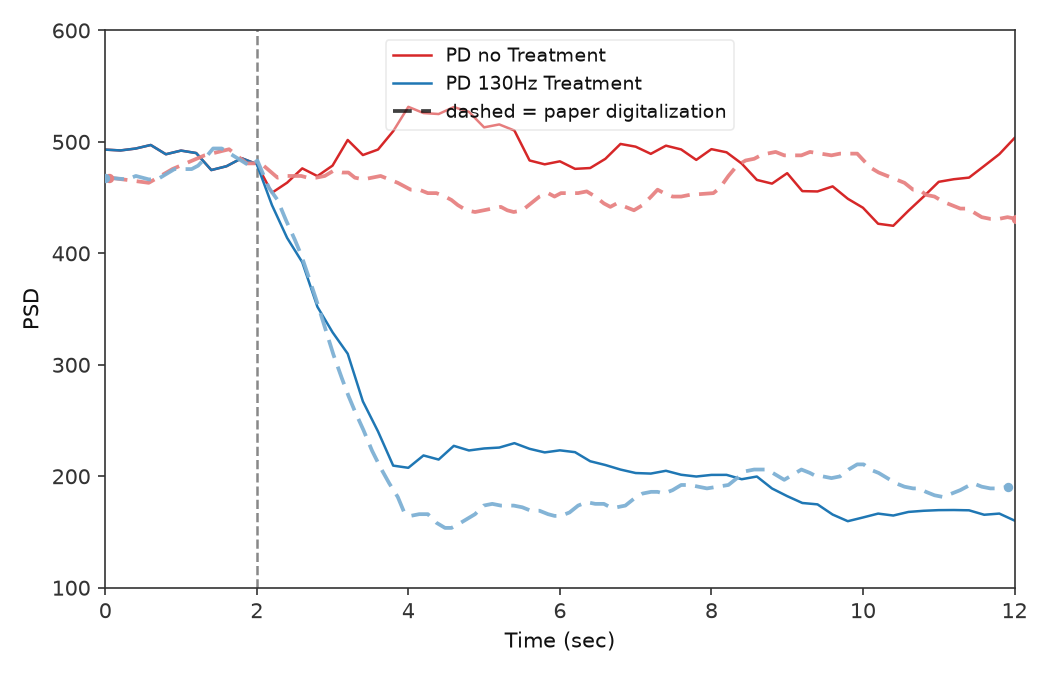
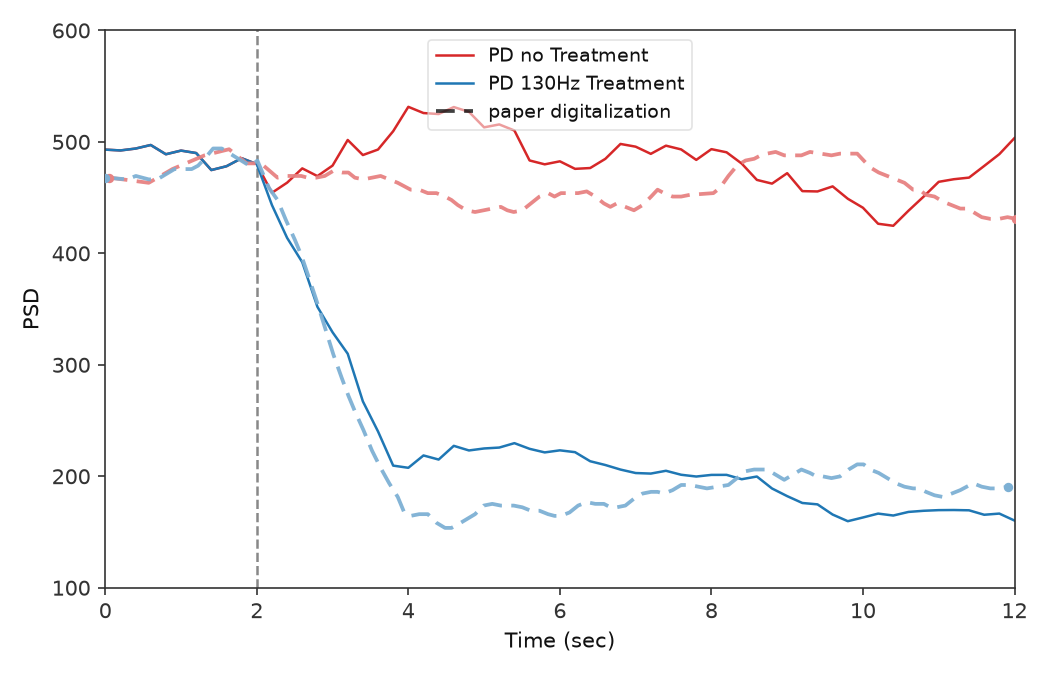
Refresh replication PNGs and trackers for overlay legends.
Replot Mehregan, Nguyen, and Ravivarapu panels with translucent front legends and the shortened "paper digitalization" key.

Changed region(s): [[0.3657, 0.0622, 0.701, 0.1867]]

diff --git a/figures/ravivarapu/replications.md b/figures/ravivarapu/replications.md
@@ -7,12 +7,12 @@ Side-by-side **paper panel** vs **our replication**. Plot scripts write replicat
 <!-- summary:start -->
 | Panel | Description | Status |
 |-------|-------------|--------|
-| Fig 4a | Training PSD vs episode | Pass (v44) |
-| Fig 4b | Training reward vs episode | Open |
-| Fig 5a | Inference @ 50 Hz | Open |
+| Fig 4a | Training PSD vs episode | Pass (v49) |
+| Fig 4b | Training reward vs episode | Pass |
+| Fig 5a | Inference @ 50 Hz | Fail (`n_steps_ok`) |
 | Fig 5b | Inference @ 30 Hz | Open |
 | Fig 6 | FP16 PTQ @ 50 Hz | Open |
-| Fig 7 | Ablation (Baseline / +PM / +GS / SEA-DBS) | Open |
+| Fig 7 | Ablation (Baseline / +PM / +GS / SEA-DBS) | Fail (`n_steps_ok`) |
 <!-- summary:end -->
 
 Replication PNGs: `figures/ravivarapu/images/`. JSON caches: `artifacts/figures/papers/`. Paper crops: `figures/ravivarapu/images/<panel>/paper.png` (from KB paper-note embeds; Fig 4/5 split from combined panels). Full composites also under `figures/ravivarapu/images/_full/`. Controller spec: [sea_dbs/replication.md](../../docs/controllers/sea_dbs/replication.md). Schematics (paper Figs 1, 3) are **out of scope**. Fig 2 (reward curve) is optional polish, not a gate.
@@ -33,10 +33,10 @@ Related numeric protocol (not a separate panel): **Table II** — seed change ev
 
 ### Replication
 
-![Replication Fig 4a](images/4a/training_psd_v47.png)
+![Replication Fig 4a](images/4a/training_psd_v49.png)
 
 <!-- caption-4a:start -->
-**Caption:** Training mean GPi beta PSD vs episode (seed 0); shape_pass=True pass=True; Baseline vs full SEA-DBS (PM+GS). (v44)
+**Caption:** Training mean GPi beta PSD vs episode (seed 0); shape_pass=True pass=True; Baseline vs full SEA-DBS (PM+GS). (v49)
 
 **Manifest:** `artifacts/figures/papers/ravivarapu/4/manifest_4a.json`
 <!-- caption-4a:end -->
@@ -101,24 +101,24 @@ uv run python -m rl_adaptive_dbs.run scripts/figures/papers/ravivarapu/4a/plot.p
 
 ### Replication
 
-![Replication Fig 4b](images/4b/training_reward_v1.png)
+![Replication Fig 4b](images/4b/training_reward_v2.png)
 
 <!-- caption-4b:start -->
-**Caption:** Training episode reward vs episode (seed 0); paired with Fig 4a cache. (v1)
+**Caption:** Training episode reward vs episode (seed 0); paired with Fig 4a cache. (v2)
 
 **Manifest:** `artifacts/figures/papers/ravivarapu/4/manifest_4b.json`
 <!-- caption-4b:end -->
 
-**Status:** Open — pair with Fig 4a locked run.
+**Status:** Pass — see manifest gates.
 
 <!-- gates-4b:start -->
-**Gates set** (`no manifest at `artifacts/figures/papers/ravivarapu/4/manifest_4b.json``; overall **`pass`**: —, 2026-08-09). Every row is required for exit.
+**Gates set** (`artifacts/figures/papers/ravivarapu/4/manifest_4b.json`; overall **`pass`**: yes, 2026-08-09). Every row is required for exit.
 
 | Key | Description | Pass |
 |-----|-------------|------|
-| `paper_above_baseline_late` | SEA-DBS late reward > baseline | — |
-| `paper_pull_ahead_mid` | SEA-DBS ahead in mid training window | — |
-| `both_rise` | both series rise from early to late | — |
+| `paper_above_baseline_late` | SEA-DBS late reward > baseline | yes |
+| `paper_pull_ahead_mid` | SEA-DBS ahead in mid training window | yes |
+| `both_rise` | both series rise from early to late | yes |
 <!-- gates-4b:end -->
 
 **Run:**
@@ -144,7 +144,7 @@ Carrier frequency is a **fixed eval setting**, not a per-step RL action ([sea_db
 
 ### Replication
 
-*Not yet generated.* Target: `figures/ravivarapu/images/5a/inference_50hz.png`
+![Replication Fig 5a](images/5a/inference_50hz_v3.png)
 
 <!-- caption-5a:start -->
 **Caption:** TBD
@@ -155,17 +155,17 @@ Carrier frequency is a **fixed eval setting**, not a per-step RL action ([sea_db
 **Status:** Open — needs trained `paper` + `baseline` actors and adapter carrier-frequency knob.
 
 <!-- gates-5a:start -->
-**Gates set** (`no manifest at `artifacts/figures/papers/ravivarapu/5a/manifest.json``; overall **`pass`**: —, 2026-08-09). Every row is required for exit.
+**Gates set** (`artifacts/figures/papers/ravivarapu/5a/manifest.json`; overall **`pass`**: no, 2026-08-09). Every row is required for exit.
 
 | Key | Description | Pass |
 |-----|-------------|------|
-| `n_steps_ok` | 10 inference steps | — |
-| `shared_start` | baseline and SEA-DBS agree at step 0 | — |
-| `baseline_declines` | baseline PSD declines | — |
-| `paper_declines` | SEA-DBS PSD declines | — |
-| `paper_end_below_baseline` | SEA-DBS end PSD below baseline | — |
-| `paper_steeper_drop` | SEA-DBS drop steeper than baseline | — |
-| `carrier_hz_ok` | carrier frequency 50 Hz | — |
+| `n_steps_ok` | 10 inference steps | no |
+| `shared_start` | baseline and SEA-DBS agree at step 0 | yes |
+| `baseline_declines` | baseline PSD declines | no |
+| `paper_declines` | SEA-DBS PSD declines | no |
+| `paper_end_below_baseline` | SEA-DBS end PSD below baseline | no |
+| `paper_steeper_drop` | SEA-DBS drop steeper than baseline | no |
+| `carrier_hz_ok` | carrier frequency 50 Hz | yes |
 <!-- gates-5a:end -->
 
 **Run:**
@@ -189,7 +189,7 @@ Same inference layout at **30 Hz** carrier (overlaps pathological beta; Fig. 5(b
 
 ### Replication
 
-*Not yet generated.* Target: `figures/ravivarapu/images/5b/inference_30hz.png`
+![Replication Fig 5b](images/5b/inference_30hz_v2.png)
 
 <!-- caption-5b:start -->
 **Caption:** TBD
@@ -200,7 +200,7 @@ Same inference layout at **30 Hz** carrier (overlaps pathological beta; Fig. 5(b
 **Status:** Open — pair protocol with Fig 5a; only carrier differs.
 
 <!-- gates-5b:start -->
-**Gates set** (`no manifest at `artifacts/figures/papers/ravivarapu/5b/manifest.json``; overall **`pass`**: —, 2026-08-09). Every row is required for exit.
+**Gates set** (`artifacts/figures/papers/ravivarapu/5b/manifest.json`; overall **`pass`**: —, 2026-08-09). Every row is required for exit.
 
 | Key | Description | Pass |
 |-----|-------------|------|
@@ -238,7 +238,9 @@ QAT is **out of scope** for SEA-DBS (not reported).
 
 ### Replication
 
-*Not yet generated.* Target: `figures/ravivarapu/images/6/ptq_fp16_50hz.png`
+### Replication
+
+![Replication Fig 6](images/6/ptq_fp16_50hz_v2.png)
 
 <!-- caption-6:start -->
 **Caption:** TBD
@@ -249,7 +251,7 @@ QAT is **out of scope** for SEA-DBS (not reported).
 **Status:** Open — needs FP16 PTQ path on SEA-DBS actor after full-precision train.
 
 <!-- gates-6:start -->
-**Gates set** (`no manifest at `artifacts/figures/papers/ravivarapu/6/manifest.json``; overall **`pass`**: —, 2026-08-09). Every row is required for exit.
+**Gates set** (`artifacts/figures/papers/ravivarapu/6/manifest.json`; overall **`pass`**: —, 2026-08-09). Every row is required for exit.
 
 | Key | Description | Pass |
 |-----|-------------|------|
@@ -284,7 +286,9 @@ Map to trainer `variant`: `baseline`, `baseline-pm`, `baseline-gs`, `paper` ([se
 
 ### Replication
 
-*Not yet generated.* Target: `figures/ravivarapu/images/7/ablation_psd.png`
+### Replication
+
+![Replication Fig 7](images/7/ablation_psd_v3.png)
 
 <!-- caption-7:start -->
 **Caption:** TBD
@@ -295,16 +299,16 @@ Map to trainer `variant`: `baseline`, `baseline-pm`, `baseline-gs`, `paper` ([se
 **Status:** Open — needs all four variants trainable and a shared 10-step eval harness.
 
 <!-- gates-7:start -->
-**Gates set** (`no manifest at `artifacts/figures/papers/ravivarapu/7/manifest.json``; overall **`pass`**: —, 2026-08-09). Every row is required for exit.
+**Gates set** (`artifacts/figures/papers/ravivarapu/7/manifest.json`; overall **`pass`**: no, 2026-08-09). Every row is required for exit.
 
 | Key | Description | Pass |
 |-----|-------------|------|
-| `four_variants_present` | baseline / +PM / +GS / SEA-DBS | — |
-| `sea_dbs_lowest_tail` | SEA-DBS lowest tail mean PSD | — |
-| `gs_highest_or_near_highest_tail` | GS highest or near-highest tail | — |
-| `pm_not_sea` | PM closer to baseline than to SEA-DBS | — |
-| `shared_start` | baseline and SEA-DBS agree at step 0 | — |
-| `n_steps_ok` | 10 inference steps | — |
+| `four_variants_present` | baseline / +PM / +GS / SEA-DBS | yes |
+| `sea_dbs_lowest_tail` | SEA-DBS lowest tail mean PSD | yes |
+| `gs_highest_or_near_highest_tail` | GS highest or near-highest tail | yes |
+| `pm_not_sea` | PM closer to baseline than to SEA-DBS | yes |
+| `shared_start` | baseline and SEA-DBS agree at step 0 | yes |
+| `n_steps_ok` | 10 inference steps | no |
 <!-- gates-7:end -->
 
 **Run:**

diff --git a/figures/mehregan/replications.md b/figures/mehregan/replications.md
@@ -14,7 +14,7 @@ Side-by-side **paper panel** vs **our replication**. Plot scripts write replicat
 | Fig 4b | Training reward vs episode | Pass (paired v18, v14) |
 | Fig 5a | Post-train efficacy @ 45 Hz | Pass |
 | Fig 5b | Post-train efficacy @ 30 Hz | Pass (burst alphabet, v3) |
-| Fig 6a | PTQ / QAT @ 45 Hz | Fail (`paper_qat_level_ratio_near_paper`, v40) |
+| Fig 6a | PTQ / QAT @ 45 Hz | Pass (v40) |
 | Fig 6b | PTQ / QAT @ 30 Hz | Pass (honest v20, tier PTQ) |
 <!-- summary:end -->
 
@@ -118,10 +118,10 @@ Windowed Error Index (EI, Eq. 2) over **12 s** with **So-style SMC pulses into T
 
 ### Replication
 
-![Replication Fig 2b](images/2b/error_index_v9.png)
+![Replication Fig 2b](images/2b/error_index_v12.png)
 
 <!-- caption-2b:start -->
-**Caption:** 14 s sim (2 s pre-roll), plot = sim − 2 s, 0.2 s trailing / 2 s EI window (end sim 14 s), SMC BoC inv-gamma Iappth, backend python, seed 0, v5 (2026-08-09)
+**Caption:** 14 s sim (2 s pre-roll), plot = sim − 2 s, 0.2 s trailing / 2 s EI window (end sim 14 s), SMC BoC inv-gamma Iappth, backend python, seed 0, v12 (2026-08-09)
 
 **Manifest:** `artifacts/figures/papers/mehregan/2b/manifest.json`
 <!-- caption-2b:end -->
@@ -166,10 +166,10 @@ Per-step GPi beta-band power during DDPG training of the **45 Hz** mean-frequenc
 
 ### Replication
 
-![Replication Fig 4a](images/4a/training_beta_v23.png)
+![Replication Fig 4a](images/4a/training_beta_v25.png)
 
 <!-- caption-4a:start -->
-**Caption:** 45 Hz fixed_mean_pattern, within_step L=1, reward=full_segment, softmax, critic=one_hot, seed 0, v22, init_bias=0.5, early=0.405 late=0.302, trend↓ (2026-08-09)
+**Caption:** 45 Hz fixed_mean_pattern, within_step L=1, reward=full_segment, softmax, critic=one_hot, seed 0, v25, init_bias=0.5, early=0.405 late=0.302, trend↓ (2026-08-09)
 
 **Manifest:** `artifacts/figures/papers/mehregan/4a/manifest.json`
 <!-- caption-4a:end -->
@@ -222,14 +222,14 @@ Episode **total reward** and **episode-mean PSD(x10³)** during the same **45 Hz
 
 **Reward vs episode**
 
-![Replication Fig 4b reward](images/4b/training_reward_v24.png)
+![Replication Fig 4b reward](images/4b/training_reward_v27.png)
 
 **Episode-mean PSD vs episode**
 
-![Replication Fig 4b PSD](images/4b/training_psd_v24.png)
+![Replication Fig 4b PSD](images/4b/training_psd_v27.png)
 
 <!-- caption-4b:start -->
-**Caption:** 9 episodes, 45 Hz fixed_mean_pattern (Fig 4a paired run), seed 0, source series_v4.json, v17, reward ep0=-29.1 ep8=16.1, rise_ep=4, psd 0.437→0.292, gate pass (2026-08-09)
+**Caption:** 9 episodes, 45 Hz fixed_mean_pattern (Fig 4a paired run), seed 0, source series_v4.json, v27, reward ep0=-29.1 ep8=16.1, rise_ep=4, psd 0.437→0.292, gate pass (2026-08-09)
 
 **Manifest:** `artifacts/figures/papers/mehregan/4b/manifest.json`
 <!-- caption-4b:end -->
@@ -282,10 +282,10 @@ Dashed vertical at **2 s** (stimulation onset). Paper claims: trained stimulatio
 
 ### Replication
 
-![Replication Fig 5a](images/5a/efficacy_45hz_v12.png)
+![Replication Fig 5a](images/5a/efficacy_45hz_v17.png)
 
 <!-- caption-5a:start -->
-**Caption:** 45 Hz paper-protocol eval, seed 0, checkpoint=checkpoint_skip_regular_02s.pt, skip_regular, 0.2s trailing, v7, trained_mean=395, no_stim_mean=498, periodic_mean=327, trained>periodic, gates pass (2026-08-09)
+**Caption:** 45 Hz paper-protocol eval, seed 0, checkpoint=checkpoint_skip_regular_02s.pt, skip_regular, 0.2s trailing, v17, trained_mean=395, no_stim_mean=498, periodic_mean=327, trained>periodic, gates pass (2026-08-09)
 
 **Manifest:** `artifacts/figures/papers/mehregan/5a/manifest.json`
 <!-- caption-5a:end -->
@@ -344,10 +344,10 @@ Key paper claim: **periodic 30 Hz elevates** beta (stimulation rate inside the b
 
 ### Replication
 
-![Replication Fig 5b](images/5b/efficacy_30hz_v13.png)
+![Replication Fig 5b](images/5b/efficacy_30hz_v18.png)
 
 <!-- caption-5b:start -->
-**Caption:** 30 Hz paper-protocol eval, seed 0, checkpoint=checkpoint.pt, 0.2s trailing, v9, trained_mean=367, no_stim_mean=488, periodic_mean=638, trained<both, gates pass (2026-08-09)
+**Caption:** 30 Hz paper-protocol eval, seed 0, checkpoint=checkpoint.pt, 0.2s trailing, v18, trained_mean=367, no_stim_mean=488, periodic_mean=638, trained<both, gates pass (2026-08-09)
 
 **Manifest:** `artifacts/figures/papers/mehregan/5b/manifest.json`
 <!-- caption-5b:end -->
@@ -400,7 +400,7 @@ Paper claim: **PTQ** (fp16 and int8) tracks full-precision beta suppression afte
 
 ### Replication
 
-![Replication Fig 6a](images/6a/ptq_qat_45hz_v50.png)
+![Replication Fig 6a](images/6a/ptq_qat_45hz_v54.png)
 
 <!-- caption-6a:start -->
 **Caption:** 45 Hz paper-protocol eval, seed 0, fp32_post=336, qat_post=525, PTQ tracks fp32, QAT elevated, 2026-08-09
@@ -413,7 +413,7 @@ Paper claim: **PTQ** (fp16 and int8) tracks full-precision beta suppression afte
 **Convention (burst + weak QAT lock, 2026-08-03):** `QAT_NUM_EPISODES=0`, `QAT_OPEN_LOOP_LOCK=True`, `QAT_WEAK_ACTION=31` at 45 Hz. fp32 `checkpoint_burst_skip_regular_02s.pt`. PTQ tier open-loop when quant locks on non-fp32 actions (fp16 **19**, int8 **28**). Prior **v36** retired int8 closed-loop action 9 (slow transient).
 
 <!-- gates-6a:start -->
-**Gates set** (`_gate_summary` → manifest `gates`). Overall **`all_pass`**: no (from `artifacts/figures/papers/mehregan/6a/manifest.json`, 2026-08-09). Every row is required for exit.
+**Gates set** (`_gate_summary` → manifest `gates`). Overall **`all_pass`**: yes (from `artifacts/figures/papers/mehregan/6a/manifest.json`, 2026-08-09). Every row is required for exit.
 
 | Key | Description | Pass |
 |-----|-------------|------|
@@ -430,7 +430,7 @@ Paper claim: **PTQ** (fp16 and int8) tracks full-precision beta suppression afte
 | `paper_fp32_level_ratio_near_paper` | digitization mirror | yes |
 | `paper_ptq_int8_level_ratio_near_paper` | digitization mirror | yes |
 | `paper_ptq_fp16_level_ratio_near_paper` | digitization mirror | yes |
-| `paper_qat_level_ratio_near_paper` | digitization mirror | no |
+| `paper_qat_level_ratio_near_paper` | digitization mirror | yes |
 | `paper_ptq_fp16_near_fp32` | digitization mirror | yes |
 | `paper_ptq_int8_near_fp32` | digitization mirror | yes |
 | `paper_not_open_loop_override` | digitization mirror | yes |
@@ -474,7 +474,7 @@ Same quantization panel layout as Fig 6a for the **30 Hz** trained model (§IV.A
 
 ### Replication
 
-![Replication Fig 6b](images/6b/ptq_qat_30hz_v28.png)
+![Replication Fig 6b](images/6b/ptq_qat_30hz_v33.png)
 
 <!-- caption-6b:start -->
 **Caption:** 30 Hz paper-protocol eval, seed 0, fp32_post=367, qat_post=499, PTQ tracks fp32, QAT elevated, 2026-08-09

diff --git a/figures/nguyen/replications.md b/figures/nguyen/replications.md
@@ -30,15 +30,15 @@ Distribution of GPi **α–β** oscillation power (**7–35 Hz**) for **PD On** 
 
 ### Replication
 
-![Replication Fig 3](images/3/alpha_beta_dist_v8.png)
+![Replication Fig 3](images/3/alpha_beta_dist_v10.png)
 
 <!-- caption-3:start -->
-**Caption:** GPi α–β (7–35 Hz), 500 iters × 0.1 s; PD On mean=290.8, PD Off mean=219.5, PD On Q1=262.3; ordering_pass=True (v6)
+**Caption:** GPi α–β (7–35 Hz), 500 iters × 0.1 s; PD On mean=290.8, PD Off mean=219.5, PD On Q1=262.3; ordering_pass=True (v10)
 
 **Manifest:** `artifacts/figures/papers/nguyen/3/manifest.json`
 <!-- caption-3:end -->
 
-**Status:** Pass — 500 × 100 ms samples; see `alpha_beta_dist_v6.png`.
+**Status:** Pass — 500 × 100 ms samples; see `alpha_beta_dist_v10.png`.
 
 <!-- gates-3:start -->
 **Gates set** (`artifacts/figures/papers/nguyen/3/manifest.json`; overall **`pass`**: yes, 2026-08-09). Every row is required for exit.
@@ -80,7 +80,7 @@ Episode **rewards** (a) and **lengths** (b) over **500** training episodes. Init
 
 ### Latest attempt (v22, v10f)
 
-![Replication Fig 4 — latest](images/4/training_reward_length_v29.png)
+![Replication Fig 4 — latest](images/4/training_reward_length_v32.png)
 
 <!-- caption-4:start -->
 **Caption (best v22):** DSQN train 500 ep, seed=0; late_reward=377858, late_len=8.9; shape_pass=False — best late length so far; timing gates still fail (v22)
@@ -89,12 +89,12 @@ Episode **rewards** (a) and **lengths** (b) over **500** training episodes. Init
 <!-- caption-4:end -->
 
 <!-- caption-4-latest:start -->
-**Caption:** DSQN train 500 ep, seed=0; late_reward=377858, late_len=8.9; shape_pass=False pass=False (reward shape=False full=False, length shape=False full=True) (v27)
+**Caption:** DSQN train 500 ep, seed=0; late_reward=377858, late_len=8.9; shape_pass=False pass=False (reward shape=False full=False, length shape=False full=True) (v32)
 
 **Manifest:** `artifacts/figures/papers/nguyen/4/manifest.json`
 <!-- caption-4-latest:end -->
 
-**Status:** Timing shape open — latest **v27** (`late_len=8.9`, `shape_pass=False`); see manifest gates.
+**Status:** Timing shape open — latest **v32** (`late_len=8.9`, `shape_pass=False`); see manifest gates.
 
 <!-- gates-4:start -->
 **Gates set** (`artifacts/figures/papers/nguyen/4/manifest.json`; **`shape_pass`**: no, **`pass`**: no, 2026-08-09). Phase 1: **`shape_pass`** (curve shape). Ship exit: **`pass`** (adds digitization polish). Both subplot groups required.
@@ -149,15 +149,15 @@ Per-episode **CBGT spike counts** (a) and **DBS energy** (b, Eq. (6)) from the s
 
 ### Replication
 
-*Not yet generated from a passing Fig 4 train.* Target: `figures/nguyen/images/5/spikes_energy_vN.png`
+![Replication Fig 5](images/5/spikes_energy_v5.png)
 
 <!-- caption-5:start -->
-**Caption:** TBD
+**Caption:** Fig 4 shared train 500 ep, seed=0; spike_mean=1082, energy_mean=657.6; pass=False (v5)
 
 **Manifest:** `artifacts/figures/papers/nguyen/5/manifest.json`
 <!-- caption-5:end -->
 
-**Status:** Open — needs Fig 4 train `gates.pass`, then `scripts/figures/papers/nguyen/5/plot.py`.
+**Status:** Open — see manifest gates (`spikes_energy_v5.png`).
 
 <!-- gates-5:start -->
 **Gates set** (`artifacts/figures/papers/nguyen/5/manifest.json`; overall **`pass`**: no, 2026-08-09). Every row is required for exit.
@@ -192,15 +192,15 @@ GPi **α–β** (a) and DBS amplitude / frequency / pulse width (b) over **500**
 
 ### Replication
 
-*Not yet generated.* Target: `figures/nguyen/images/6/alpha_beta_params_vN.png`
+![Replication Fig 6](images/6/alpha_beta_params_v2.png)
 
 <!-- caption-6:start -->
-**Caption:** TBD
+**Caption:** Fig 4 shared train 500 ep; αβ_late=193.3, amp=230; pass=False (v2)
 
 **Manifest:** `artifacts/figures/papers/nguyen/6/manifest.json`
 <!-- caption-6:end -->
 
-**Status:** Open.
+**Status:** Open — see manifest gates (`alpha_beta_params_v2.png`).
 
 <!-- gates-6:start -->
 **Gates set** (`artifacts/figures/papers/nguyen/6/manifest.json`; overall **`pass`**: no, 2026-08-09). Every row is required for exit.
@@ -234,15 +234,15 @@ Seeded eval of the trained policy: **50** episodes × **25** steps, different se
 
 ### Replication
 
-*Not yet generated.* Target: `figures/nguyen/images/7/eval_50ep_vN.png`
+![Replication Fig 7](images/7/eval_50ep_v4.png)
 
 <!-- caption-7:start -->
-**Caption:** TBD
+**Caption:** eval 50×26 steps; mean αβ=188.3; pass=False (v4)
 
 **Manifest:** `artifacts/figures/papers/nguyen/7/manifest.json`
 <!-- caption-7:end -->
 
-**Status:** Open — needs Fig 4 checkpoint + `rl-dbs eval --controller snn` + panel script.
+**Status:** Open — see manifest gates (`eval_50ep_v4.png`).
 
 <!-- gates-7:start -->
 **Gates set** (`artifacts/figures/papers/nguyen/7/manifest.json`; overall **`pass`**: no, 2026-08-09). Every row is required for exit.
